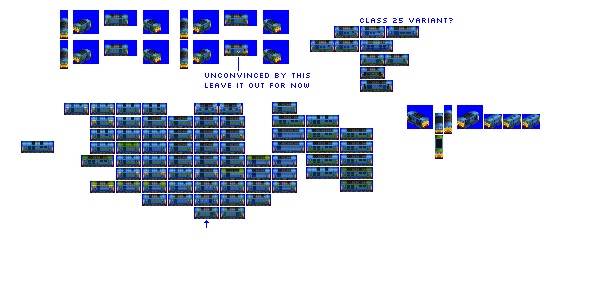
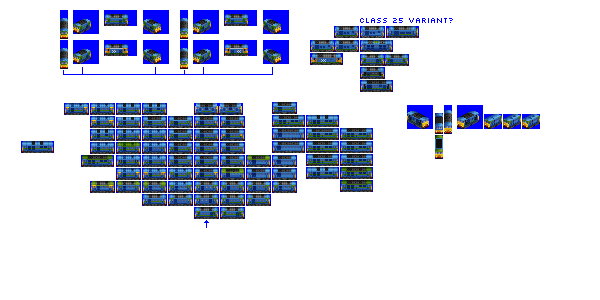
Change: (WIP) alternative railfreight livery for Kelpie

diff --git a/src/vehicles/kelpie.py b/src/vehicles/kelpie.py
@@ -14,7 +14,8 @@ def main(roster_id):
         fixed_run_cost_points=140,  # substantial cost bonus as a mixed traffic engine
         intro_date_offset=-2,  # let's not have everything turn up in 1960
         gen=4,
-        sprites_complete=True,
+        alternative_cc_livery="RAILFREIGHT_RED_STRIPE",
+        sprites_complete=False,
     )
 
     consist.add_unit(
